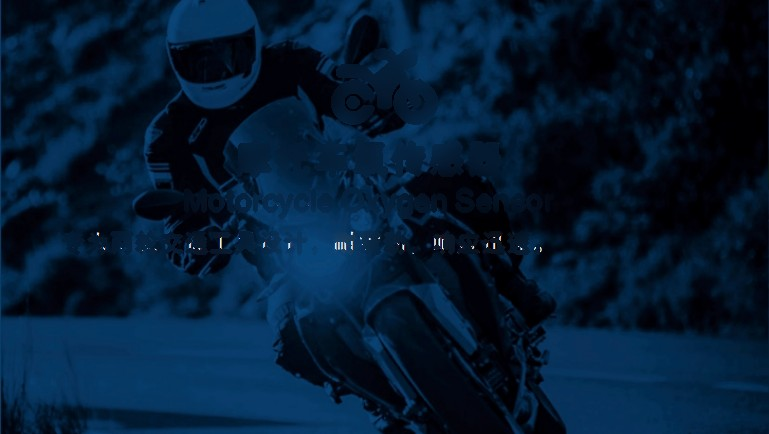
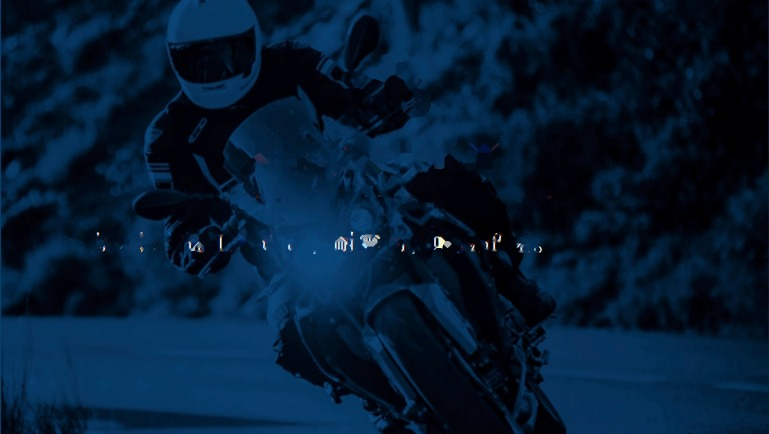
Lighten the product cards so the photos stay readable.

diff --git a/src/routes/index.tsx b/src/routes/index.tsx
@@ -143,8 +143,8 @@ function Home() {
             ] as const).map(([src, line, title, body, icon]) => (
               <Link key={line} to="/products" search={catalogSearch({ line })} className="relative block min-h-64 overflow-hidden rounded-2xl">
                 <img src={src} alt="" className="absolute inset-0 h-full w-full object-cover" />
-                <span className="absolute inset-0 bg-[#08356a]/72" />
-                <span className="relative flex h-full min-h-64 flex-col items-center justify-center px-8 py-8 text-center text-white">
+                <span className="absolute inset-0 bg-[#0a3f78]/25" />
+                <span className="relative flex h-full min-h-64 flex-col items-center justify-center px-8 py-8 text-center text-white drop-shadow-[0_2px_10px_rgba(0,0,0,0.85)]">
                   <TileIcon name={icon} />
                   <span className="mt-3 text-2xl font-semibold">{t(title)}</span>
                   <span className="mt-3 max-w-md text-sm leading-6 text-white/90">{t(body)}</span>
